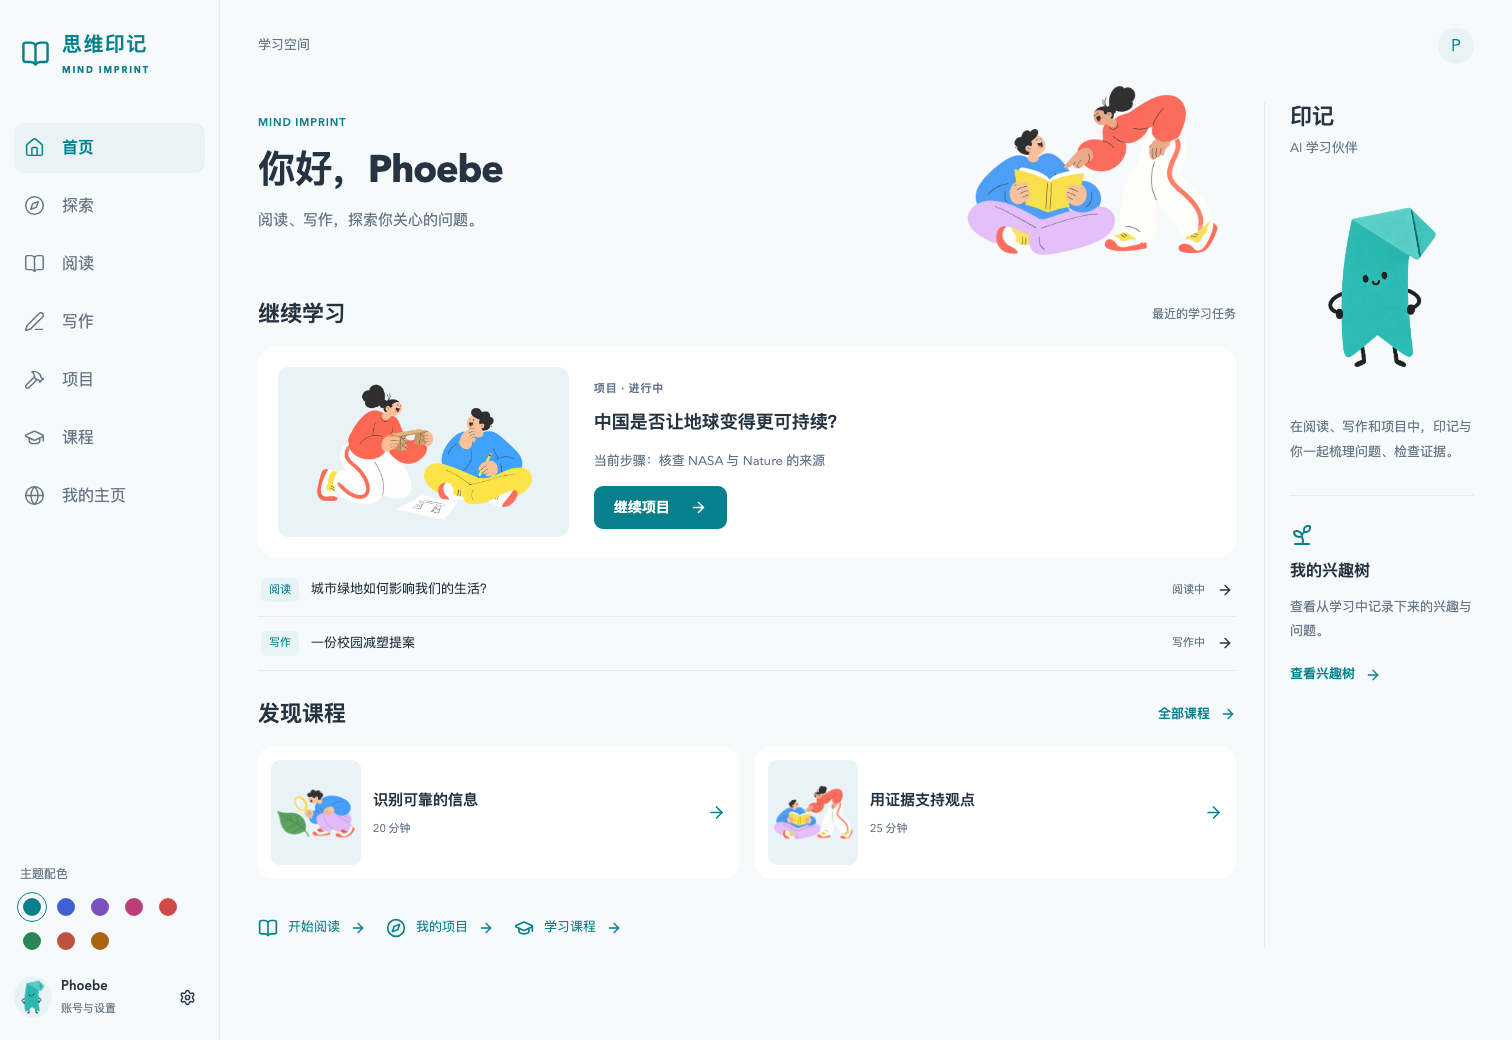
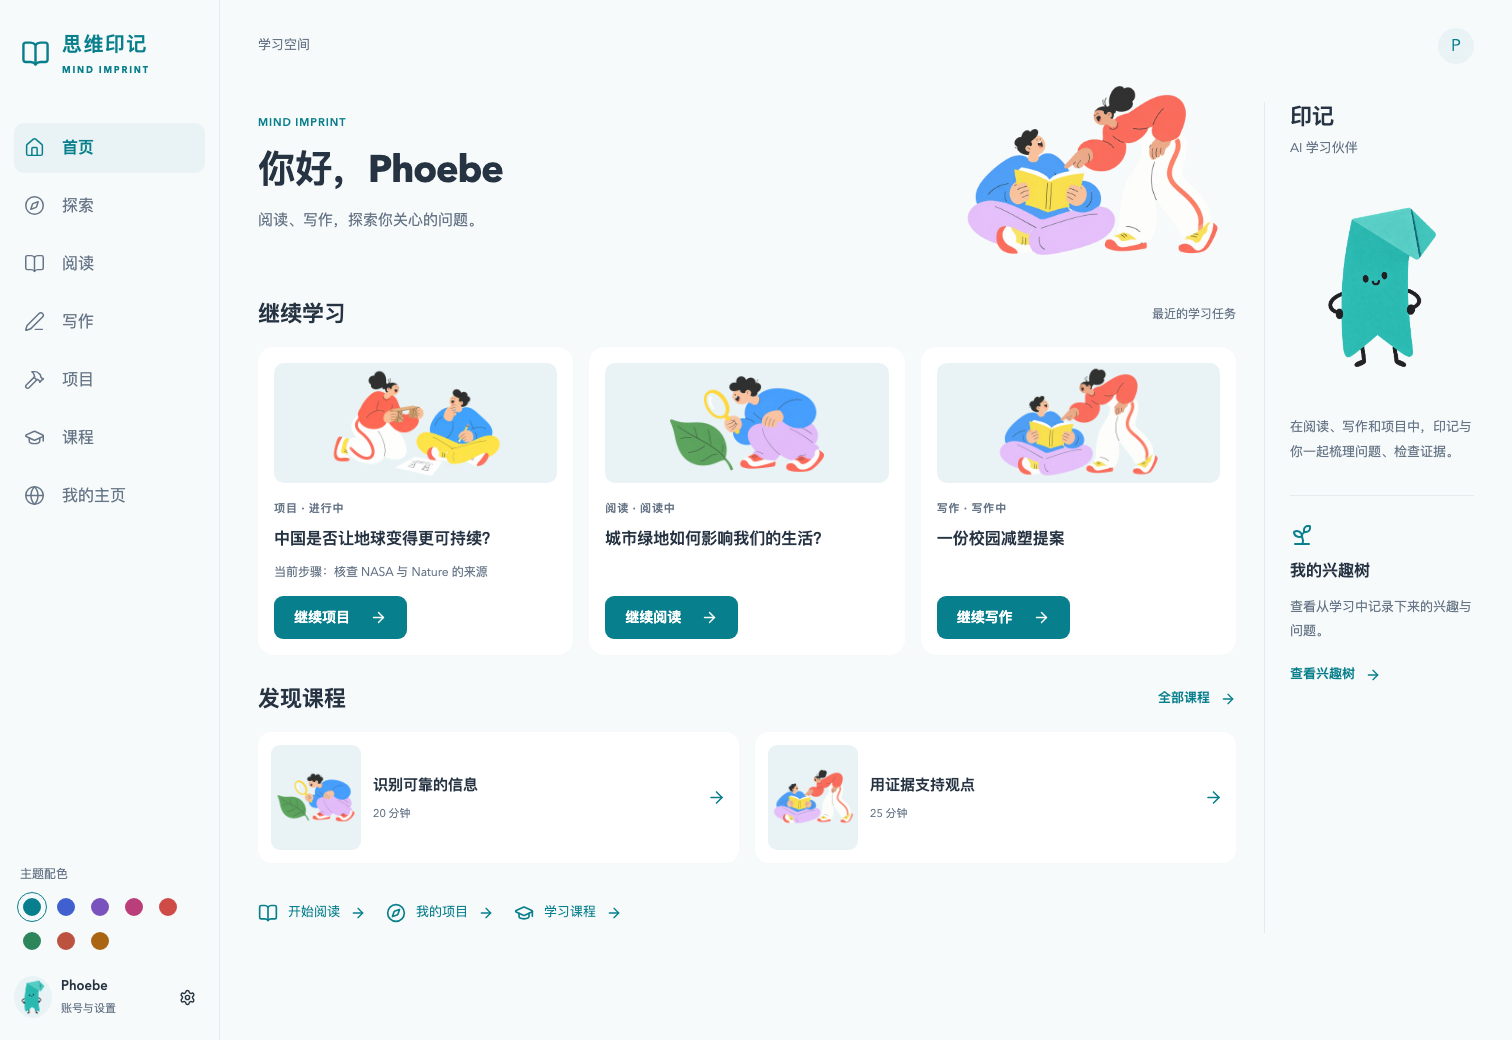
style(lite): give recent learning cards equal visual weight

diff --git a/apps/lite-web/src/home/LearningHome.tsx b/apps/lite-web/src/home/LearningHome.tsx
@@ -72,7 +72,6 @@ export function LearningHome({ user }: { user: MeUser }) {
       alive = false;
     };
   }, [retry]);
-  const first = recent?.[0];
   return (
     <div className="learning-home">
       <header className="learning-topline">
@@ -108,54 +107,43 @@ export function LearningHome({ user }: { user: MeUser }) {
               <p className="learning-loading" role="status">
                 正在加载学习记录…
               </p>
-            ) : first ? (
-              <>
-                <article className="learning-feature">
-                  <div className="learning-feature-art">
-                    <img
-                      src={first.kind === "项目" ? makers : curious}
-                      alt=""
-                    />
-                  </div>
-                  <div className="learning-feature-copy">
-                    <span className="learning-eyebrow">
-                      {first.kind} · {first.status}
-                    </span>
-                    <h3>{first.title}</h3>
-                    {first.detail && (
-                      <p className="learning-detail">
-                        当前步骤：{first.detail}
-                      </p>
-                    )}
-                    <button
-                      className="learning-primary"
-                      onClick={() => navigate(first.path)}
-                    >
-                      继续{first.kind}
-                      <ArrowRight size={17} />
-                    </button>
-                  </div>
-                </article>
-                {recent.length > 1 && (
-                  <div className="learning-recent">
-                    {recent.slice(1).map((item) => (
+            ) : recent.length > 0 ? (
+              <div className="learning-task-grid">
+                {recent.map((item) => (
+                  <article className="learning-task" key={item.key}>
+                    <div className="learning-task-art">
+                      <img
+                        src={
+                          item.kind === "项目"
+                            ? makers
+                            : item.kind === "写作"
+                              ? together
+                              : curious
+                        }
+                        alt=""
+                      />
+                    </div>
+                    <div className="learning-task-copy">
+                      <span className="learning-eyebrow">
+                        {item.kind} · {item.status}
+                      </span>
+                      <h3>{item.title}</h3>
+                      {item.detail && (
+                        <p className="learning-detail">
+                          当前步骤：{item.detail}
+                        </p>
+                      )}
                       <button
-                        key={item.key}
+                        className="learning-primary"
                         onClick={() => navigate(item.path)}
                       >
-                        <span className="learning-kind">{item.kind}</span>
-                        <span className="learning-recent-title">
-                          {item.title}
-                        </span>
-                        <span className="learning-recent-status">
-                          {item.status}
-                        </span>
-                        <ArrowRight size={16} />
+                        继续{item.kind}
+                        <ArrowRight size={17} />
                       </button>
-                    ))}
-                  </div>
-                )}
-              </>
+                    </div>
+                  </article>
+                ))}
+              </div>
             ) : errors.length === 0 ? (
               <div className="learning-empty">
                 <img src={curious} alt="" />

diff --git a/apps/lite-web/src/home/learning.css b/apps/lite-web/src/home/learning.css
@@ -298,30 +298,48 @@
   margin: 10px 0 15px;
   overflow-wrap: anywhere;
 }
-.learning-feature {
+.learning-task-grid {
+  display: grid;
+  grid-template-columns: repeat(auto-fit, minmax(min(100%, 190px), 1fr));
+  gap: 16px;
+  margin-bottom: 28px;
+}
+.learning-task {
+  min-width: 0;
   display: flex;
-  padding: 20px;
-  gap: 25px;
+  flex-direction: column;
+  padding: 16px;
   background: var(--learning-surface);
-  border-radius: 17px;
+  border-radius: 16px;
 }
-.learning-feature-art {
-  width: 31%;
-  min-width: 140px;
+.learning-task-art {
   display: flex;
-  align-items: center;
-  border-radius: 11px;
+  justify-content: center;
+  border-radius: 10px;
   background: var(--learning-soft);
+  margin-bottom: 18px;
 }
-.learning-feature-art img {
+.learning-task-art img {
   width: 100%;
-  height: 155px;
+  height: 120px;
   object-fit: contain;
 }
-.learning-feature-copy {
-  min-width: 0;
+.learning-task-copy {
+  display: flex;
+  flex-direction: column;
+  align-items: flex-start;
   flex: 1;
-  padding: 8px 0;
+  min-width: 0;
+}
+.learning-task-copy h3 {
+  font-size: 16px;
+  margin-bottom: 12px;
+}
+.learning-task-copy .learning-primary {
+  margin-top: auto;
+}
+.learning-task-copy .learning-detail {
+  font-size: 12px;
 }
 .learning-detail {
   color: var(--learning-muted);
@@ -344,41 +362,6 @@
 }
 .learning-primary:hover {
   filter: brightness(0.92);
-}
-.learning-recent {
-  margin: 7px 0 28px;
-}
-.learning-recent button {
-  display: flex;
-  width: 100%;
-  align-items: center;
-  gap: 12px;
-  padding: 14px 3px;
-  color: var(--learning-ink);
-  background: none;
-  border: 0;
-  border-bottom: 1px solid var(--learning-line);
-  text-align: left;
-}
-.learning-recent-title {
-  flex: 1;
-  min-width: 0;
-  overflow: hidden;
-  text-overflow: ellipsis;
-  white-space: nowrap;
-  font-size: 13px;
-}
-.learning-kind,
-.learning-recent-status {
-  font-size: 11px;
-  color: var(--learning-muted);
-  flex-shrink: 0;
-}
-.learning-kind {
-  background: var(--learning-soft);
-  color: var(--learning-accent);
-  padding: 4px 8px;
-  border-radius: 5px;
 }
 .learning-home .learning-link {
   display: inline-flex;
@@ -598,12 +581,8 @@
   .learning-section-head > span {
     display: none;
   }
-  .learning-feature {
-    gap: 12px;
-    padding: 15px;
-  }
-  .learning-feature-art {
-    display: none;
+  .learning-task-art img {
+    height: 100px;
   }
   .learning-courses {
     grid-template-columns: 1fr;
@@ -657,7 +636,6 @@
 :root[data-theme="dark"] .learning-brand,
 :root[data-theme="dark"] .learning-nav-links button[aria-current="page"],
 :root[data-theme="dark"] .learning-shortcuts button,
-:root[data-theme="dark"] .learning-kind,
 :root[data-theme="dark"] .learning-welcome .learning-eyebrow,
 :root[data-theme="dark"] .learning-error button {
   color: color-mix(in srgb, var(--learning-accent) 45%, white);

diff --git a/docs/2026-09-14-lite-home-visual.md b/docs/2026-09-14-lite-home-visual.md
@@ -31,3 +31,9 @@
 生成提示词：
 
 > Create a single production illustration asset, transparent background PNG: the teal folded-paper bookmark AI character shown on the RIGHT of this reference homepage. Reference is identity/style reference. Isolate and faithfully redraw ONLY that same character: tall teal bookmark body with V cut at bottom, top right triangular folded paper corner, two charcoal oval eyes and tiny curved smile, thin charcoal bent arms resting on hips, two stick feet. Subtle flat editorial texture, minimal facets, NOT glossy 3D, no text, no UI, no logo, no decorations. Center character fully visible with generous transparent padding, square canvas 1024px, occupies 80% height. Calm friendly expression. Actual alpha transparency.
+
+## 首页反馈调整
+
+“继续学习”调整为 1–3 张相同层级的卡片，统一插画区、标题、状态和操作按钮；不再使用第一条大卡片、后两条列表的主次结构。保持现有最近活动排序和跳转。浏览器验证 1/2/3 张卡片、三列等宽、小屏、长标题、空状态、失败重试及配色切换，未发现页面异常或横向溢出；TypeScript 检查通过。
+
+教师布置作业后的首页优先展示留到作业功能就绪后迭代，本次未加入占位、模拟作业或优先级规则。
